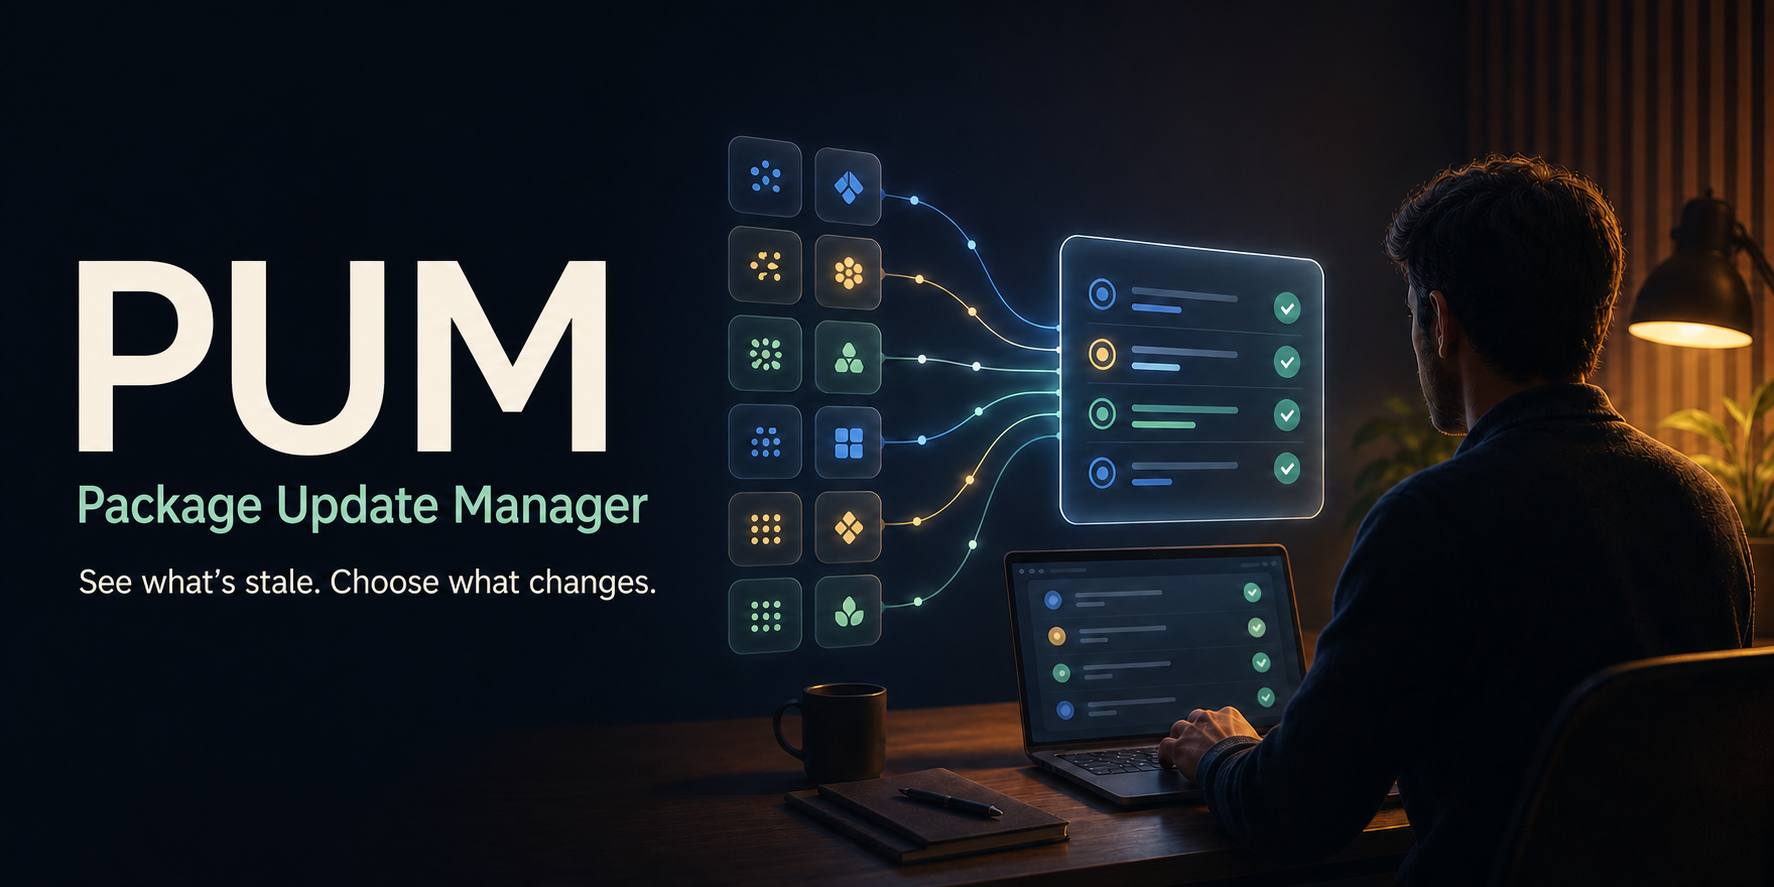
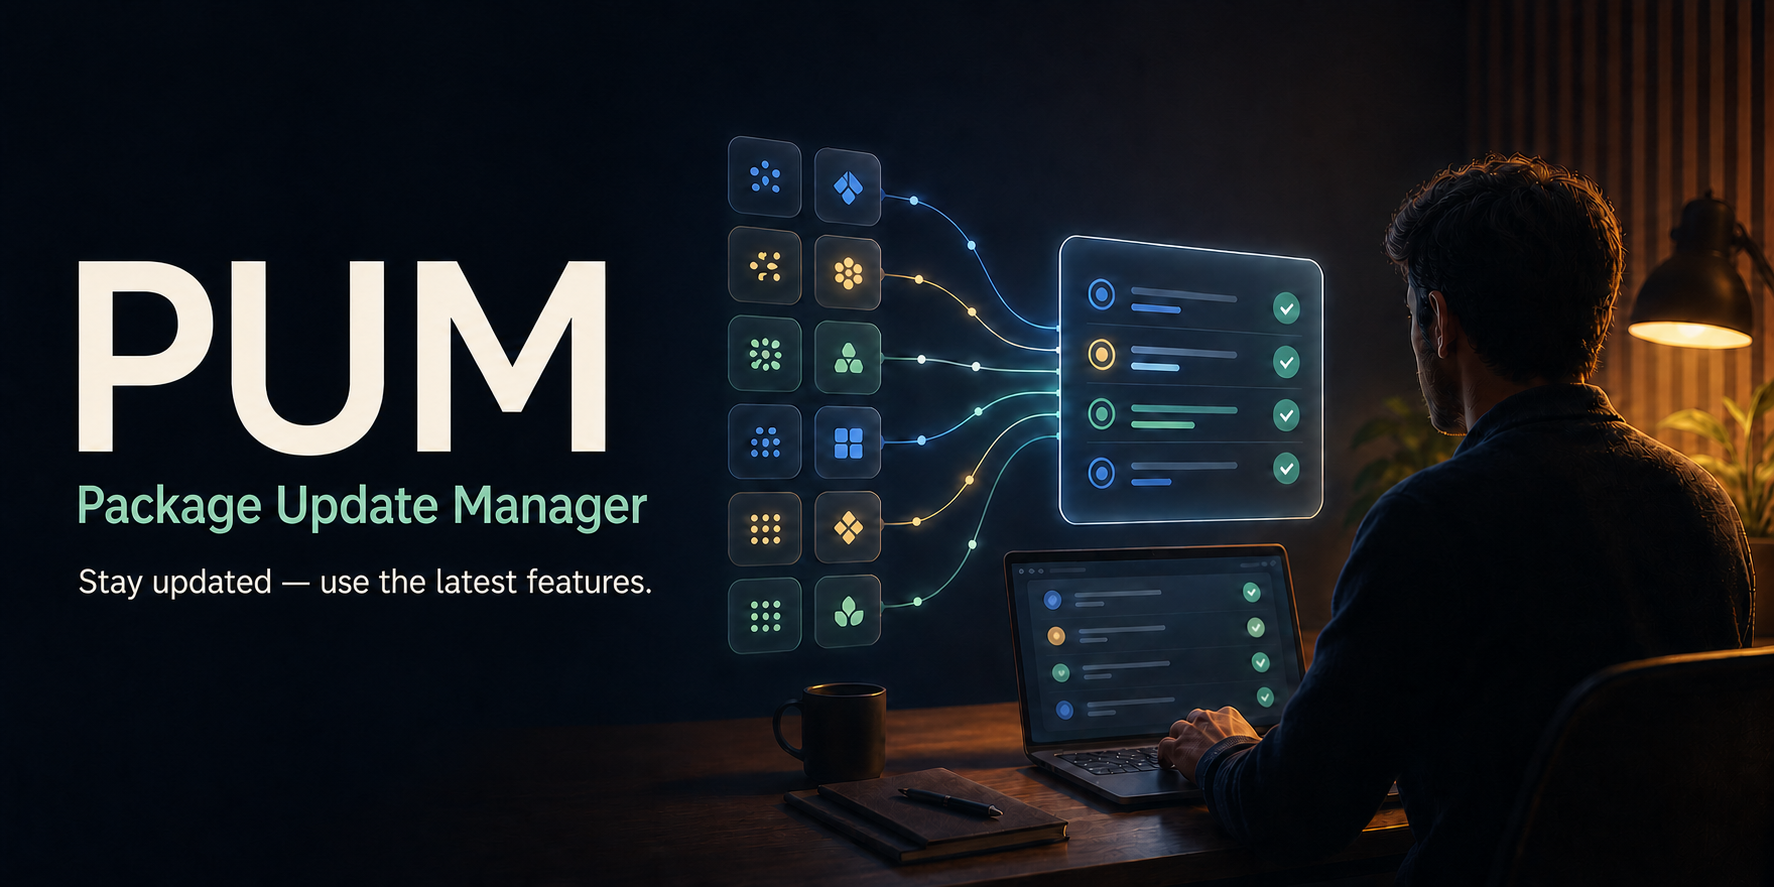
docs: emphasize latest feature access

diff --git a/docs/assets/README.md b/docs/assets/README.md
@@ -13,8 +13,8 @@
   warm low-light studio, a clear local command centre, and twelve subtle abstract
   package-source tiles converging into one transparent status panel. Put exactly these
   crisp, high-legibility sans-serif text blocks on the quiet left third:
-  “PUM” (largest), “Package Update Manager” (directly below), and “See what’s stale.
-  Choose what changes.” (smallest). The text must be real readable typography, not
+  “PUM” (largest), “Package Update Manager” (directly below), and “Stay updated — use
+  the latest features.” (smallest). The text must be real readable typography, not
   pseudo-text. Visual message: clarity, consent, safe updates, no silent machine
   changes. Palette: deep graphite and midnight navy, soft amber for attention, mint for
   verified/current, restrained cobalt. High-end editorial product illustration,